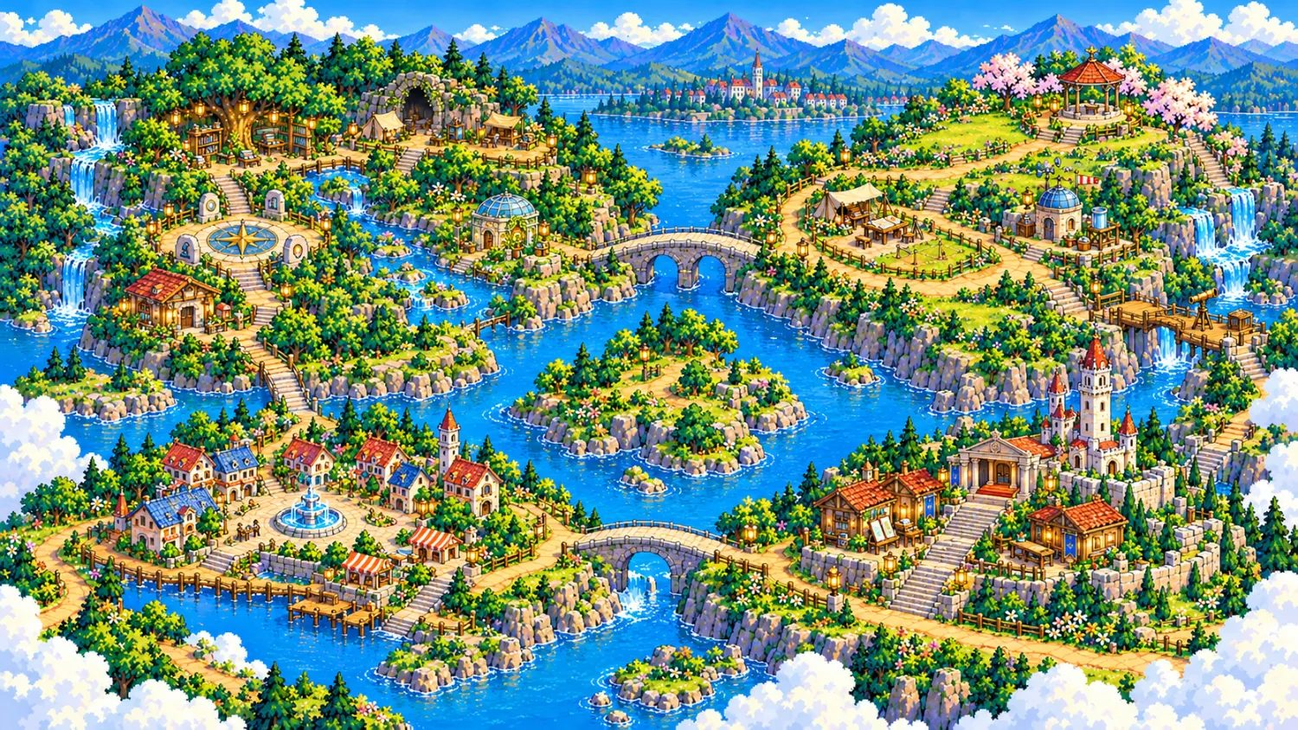
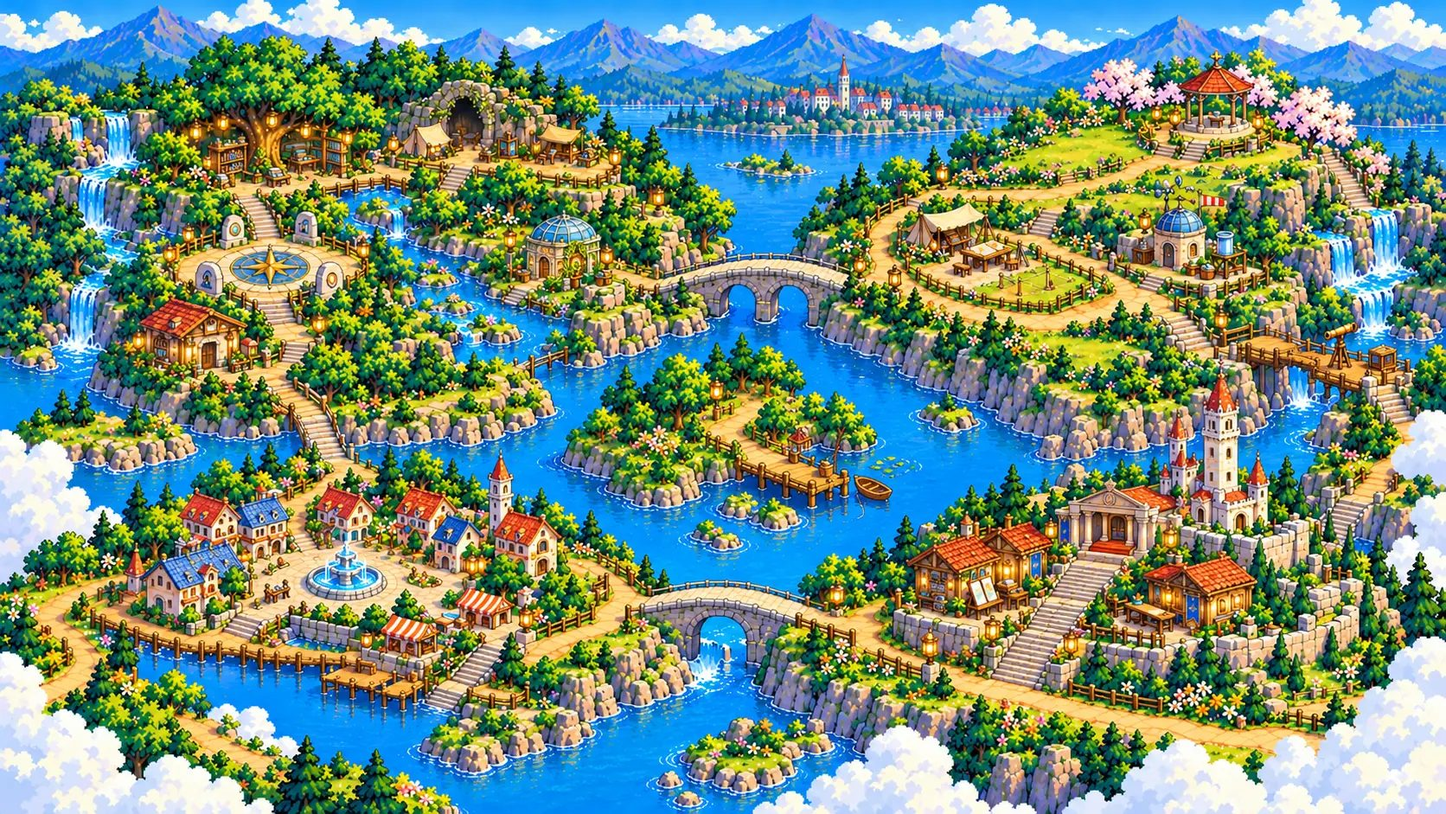
월드맵: 가운데 섬 낚시 부두 그림, 2장 이름판은 잔디밭 · 4장은 계단 아래 · 낚시터는 섬 가운데로 1장 연구실 둘러보기 장면 배경, My Journey · My CV 아이콘과 글자 간격 넓힘
Claude-Session: https://claude.ai/code/session_01RZDveyQxuKoJk7R9pFd1fU

diff --git a/css/style.css b/css/style.css
@@ -152,7 +152,7 @@ main { max-width: 1440px; margin: 0 auto; padding: 16px; }
 .bottom-row { display: grid; grid-template-columns: 1fr minmax(280px, 420px); gap: 14px; align-items: stretch; }
 /* 월드맵 아래 오른쪽: My Journey · My CV 두 칸 (아이콘 위, 이름 아래), 로그인은 아래 한 줄 */
 .side-links { display: grid; grid-template-columns: 1fr 1fr; gap: 10px; align-content: stretch; }
-.side-link { display: grid; justify-items: center; align-content: center; gap: 6px; padding: 14px 16px; background: var(--surface); border: 3px solid var(--wood); border-radius: var(--radius); text-decoration: none; color: var(--text); font-family: var(--pixel); font-size: 1.1em; text-align: center; cursor: pointer; }
+.side-link { display: grid; justify-items: center; align-content: center; gap: 14px; padding: 14px 16px; background: var(--surface); border: 3px solid var(--wood); border-radius: var(--radius); text-decoration: none; color: var(--text); font-family: var(--pixel); font-size: 1.1em; text-align: center; cursor: pointer; }
 .sl-icon { font-size: 34px; line-height: 1; }
 .side-link.login { grid-column: 1 / -1; background: var(--accent); color: var(--on-accent); }
 
@@ -529,7 +529,7 @@ input, select, textarea { padding: 8px 10px; border: 2px solid var(--line); bord
 .world-map .region { position: absolute; transform: translate(-50%, -50%); justify-items: center; text-align: center; min-width: 180px; }
 .world-map .region b { font-size: calc(17px * var(--fs)); }
 .world-map .region .chip { top: -30px; right: -12px; }
-.world-map .pond-sign { position: absolute; left: 47%; top: 54%; transform: translate(-50%, -50%); width: max-content; font-size: clamp(12px, 1.05vw, 15px); }
+.world-map .pond-sign { position: absolute; left: 52%; top: 51%; transform: translate(-50%, -50%); width: max-content; font-size: clamp(12px, 1.05vw, 15px); }
 @media (max-width: 900px) {
   .map-area.world-map { aspect-ratio: auto; padding: 46vw 10px 10px; background-size: 100% auto; background-position: top; background-repeat: no-repeat; background-color: #5E8C55; }
   .world-map .map-grid { position: static; display: grid; grid-template-columns: 1fr 1fr; gap: 8px; }
